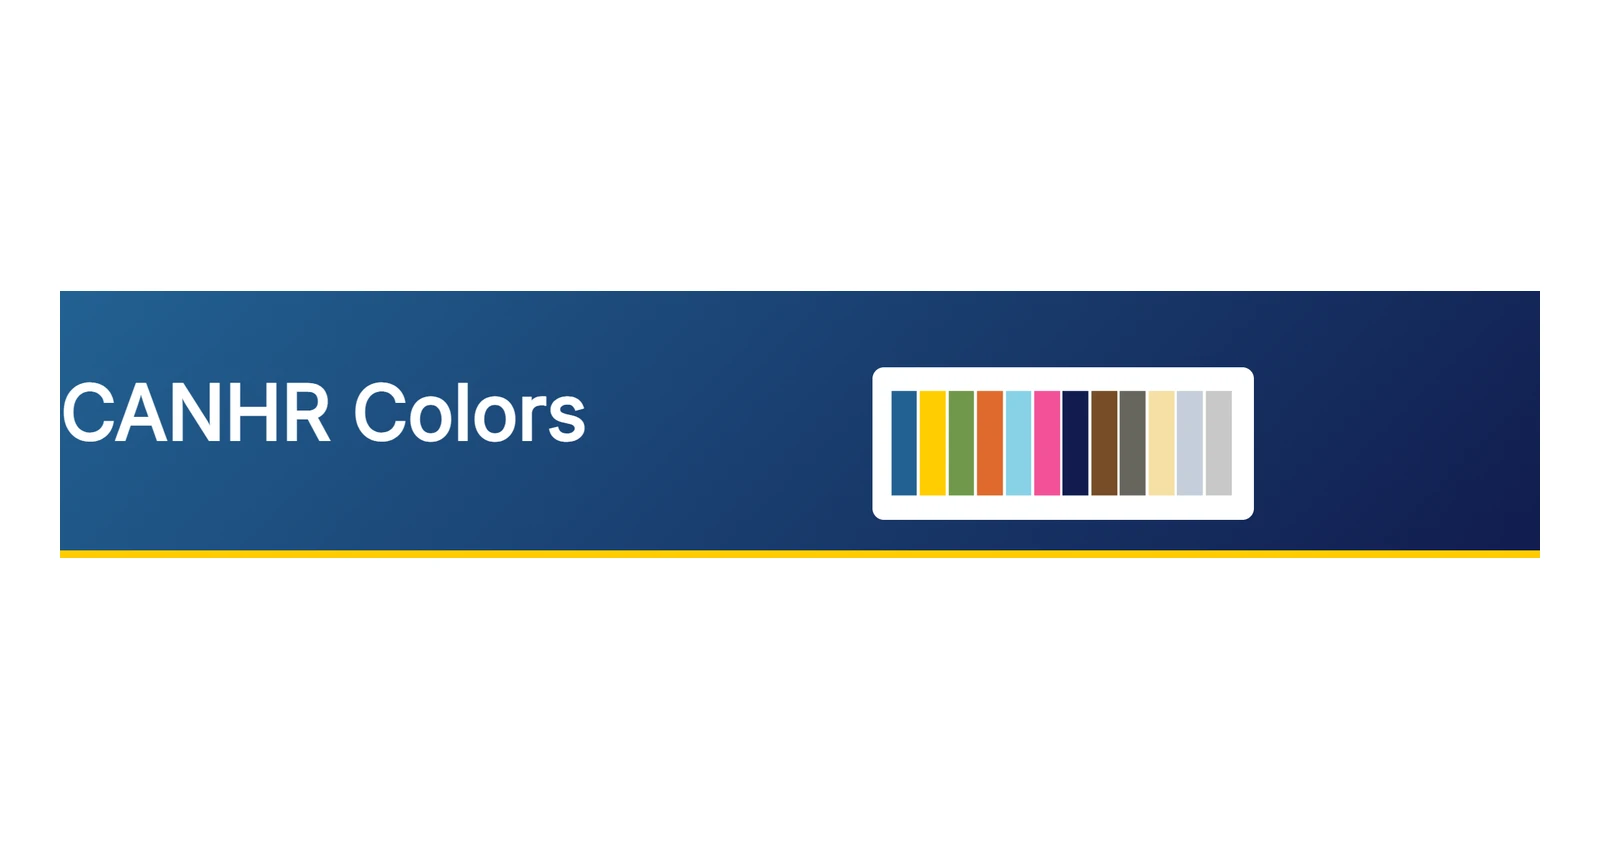
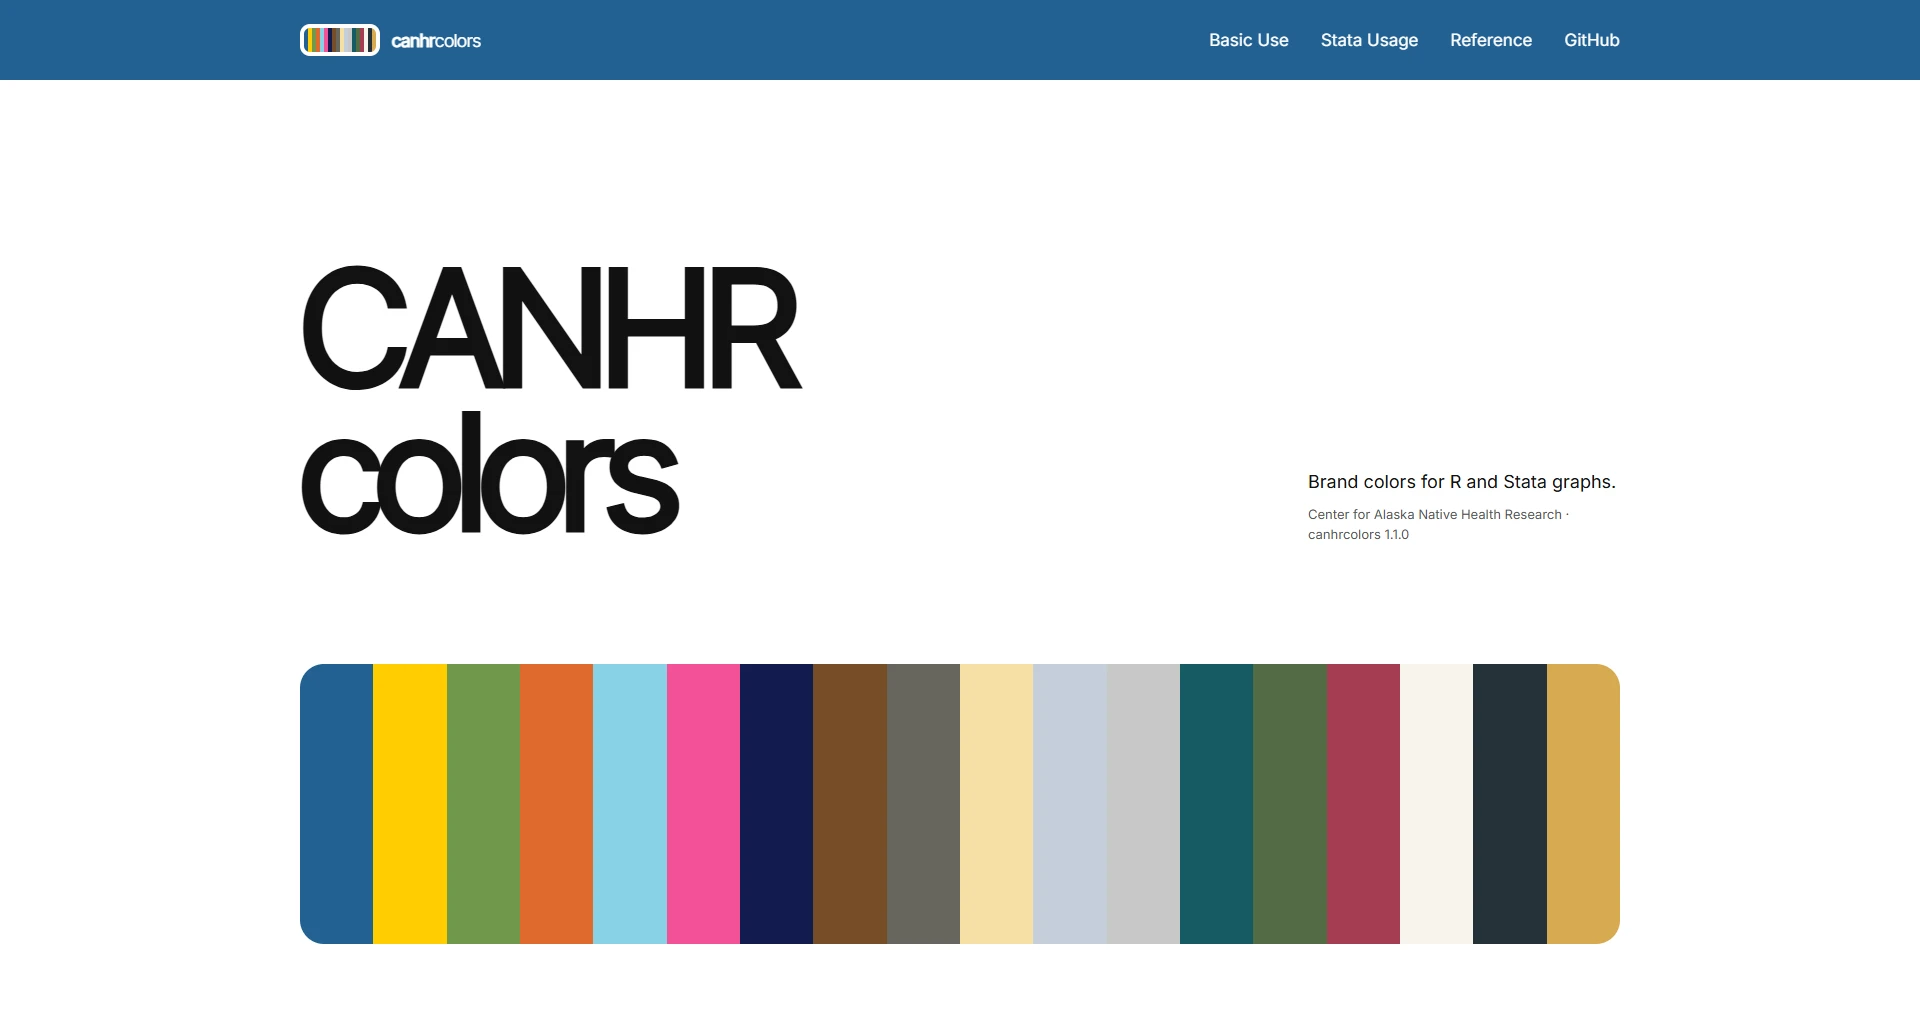
updates

diff --git a/src/data/software.js b/src/data/software.js
@@ -111,7 +111,7 @@ export const entries = [
     title: 'canhrcolors',
     slug: 'canhrcolors',
     subtitle: 'CANHR Colors for R and Stata',
-    about: 'An R package and Stata scheme that bring the Center for Alaska Native Health Research’s 12-color palette into both programs: canhrcolors(), a ggplot2 color scale and a theme in R, and set scheme canhr in Stata, so figures from R and Stata share the same CANHR look.',
+    about: 'An R package and Stata scheme that bring the Center for Alaska Native Health Research’s 18-color palette into both programs: canhrcolors(), a ggplot2 color scale and a theme in R, and set scheme canhr in Stata, so figures from R and Stata share the same CANHR look.',
     images: ['/images/software/canhrcolors.png'],
     links: [
       { label: 'GitHub', href: 'https://github.com/rdazadda/CANHR-color-schemes' },
